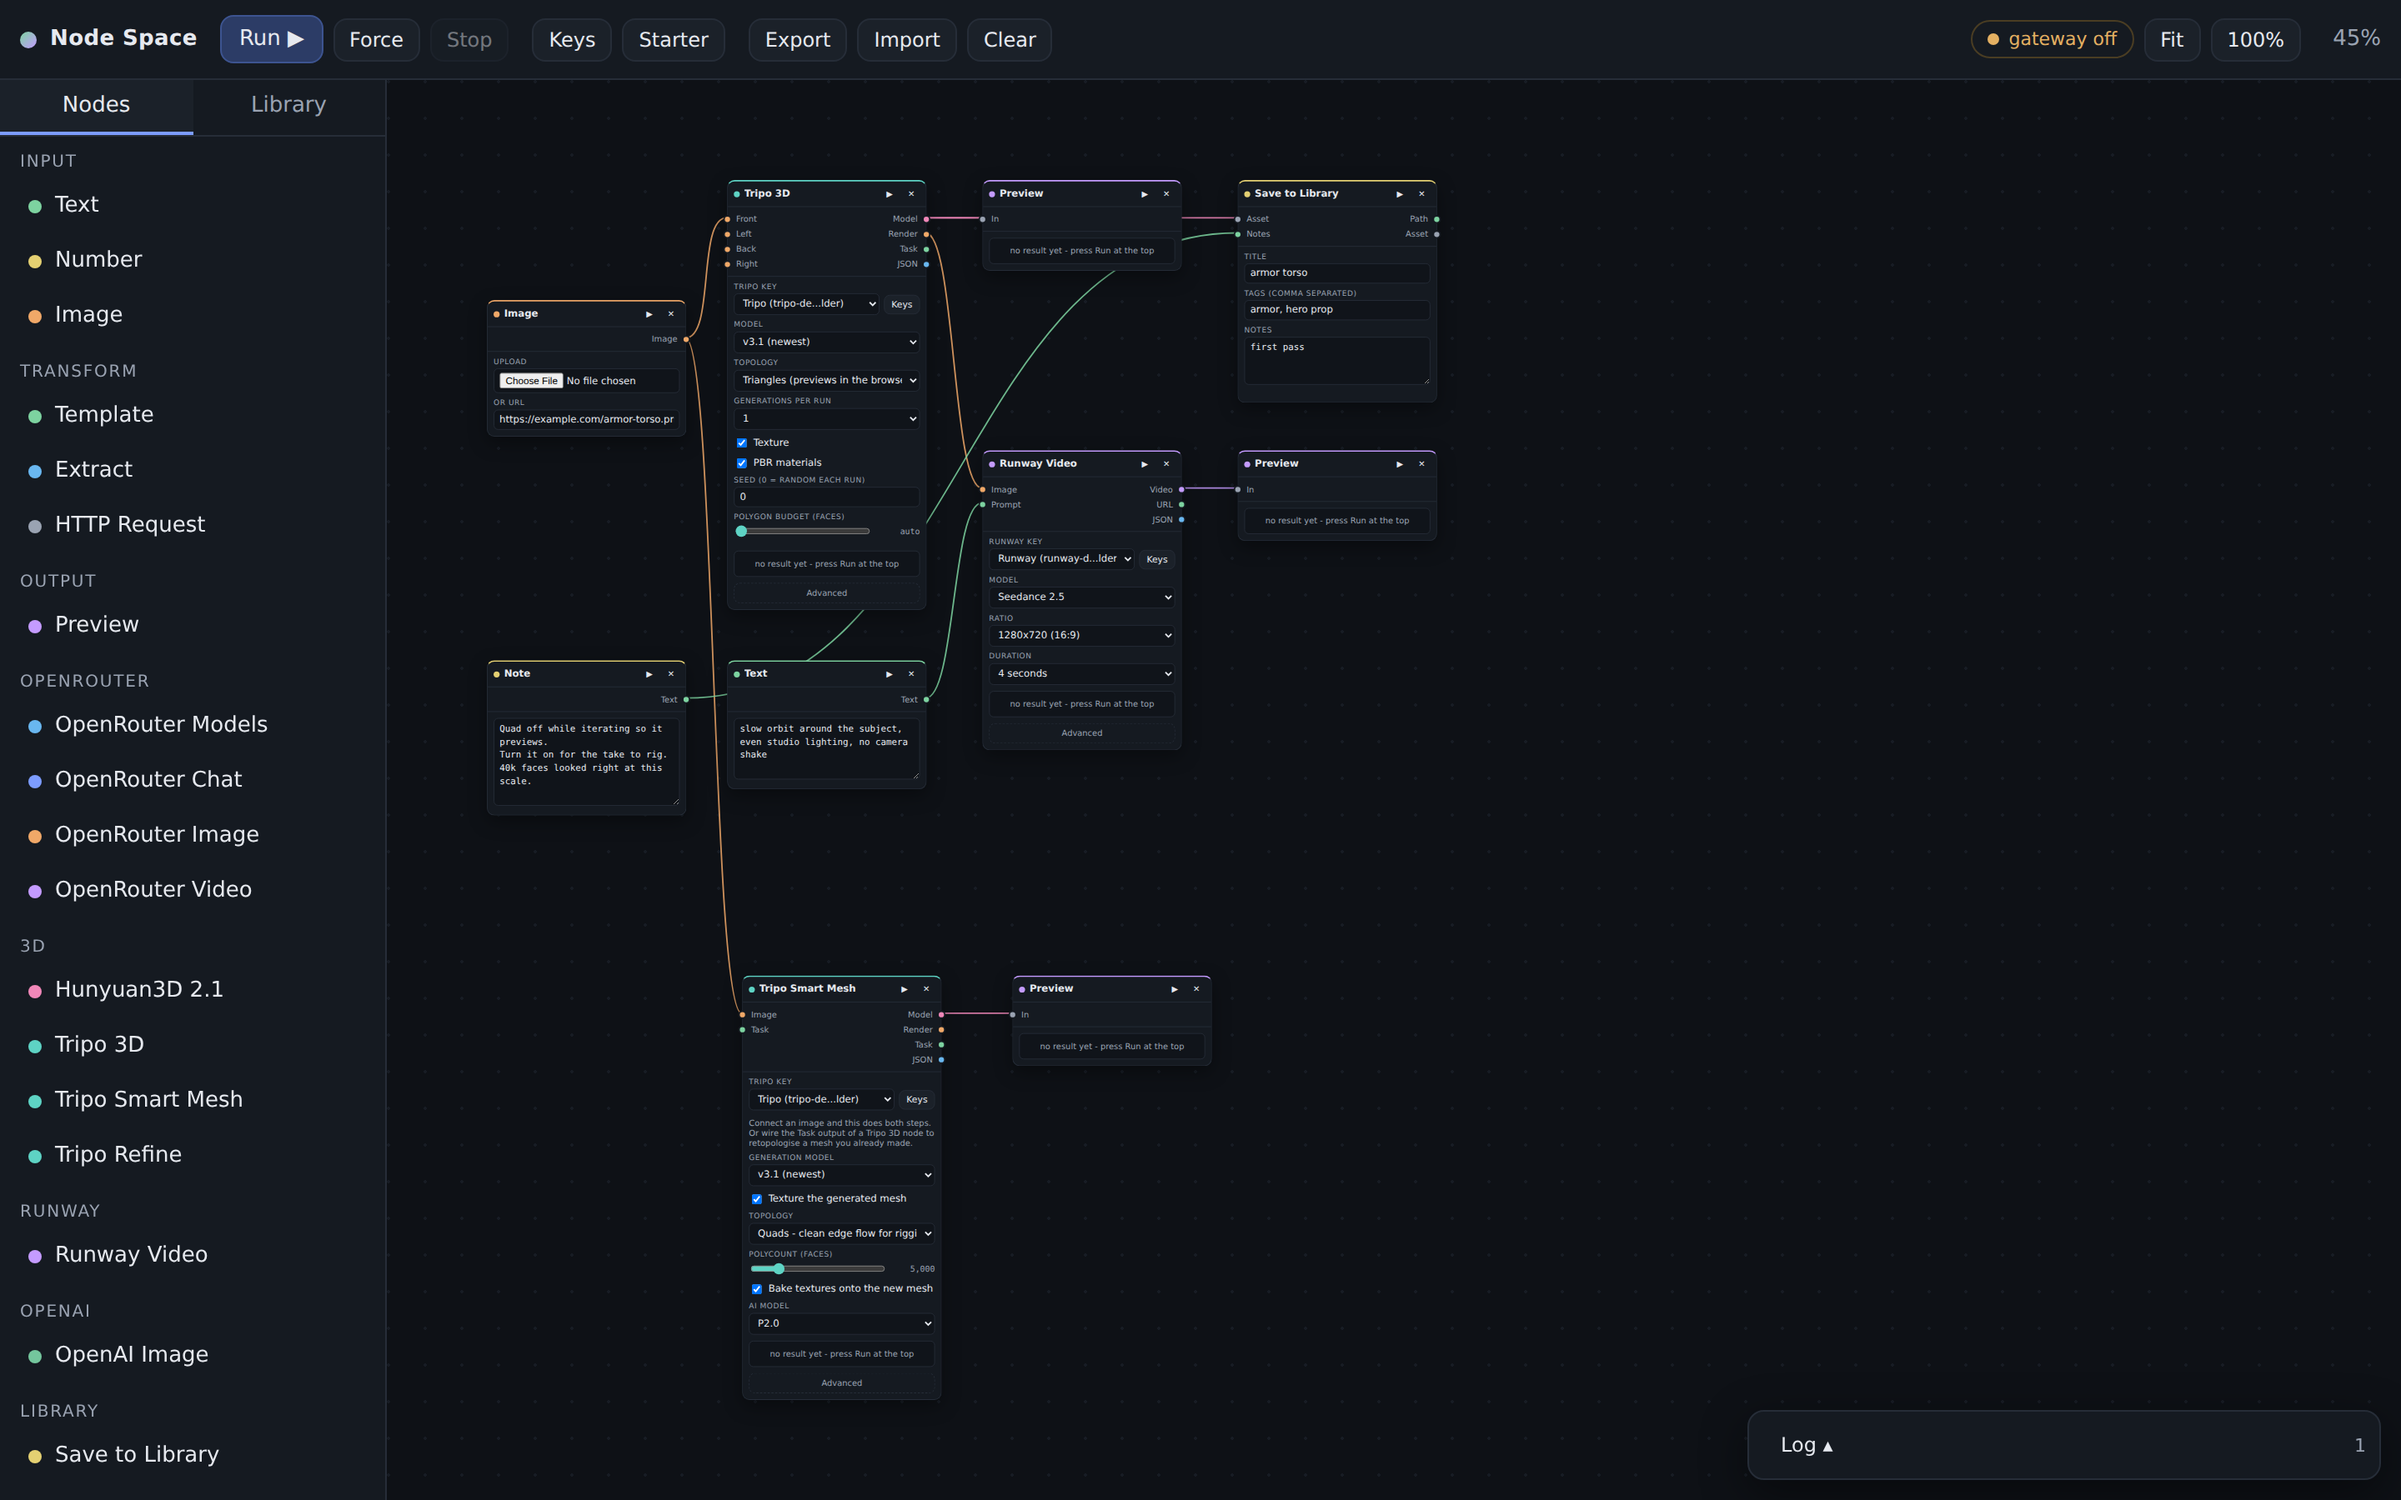
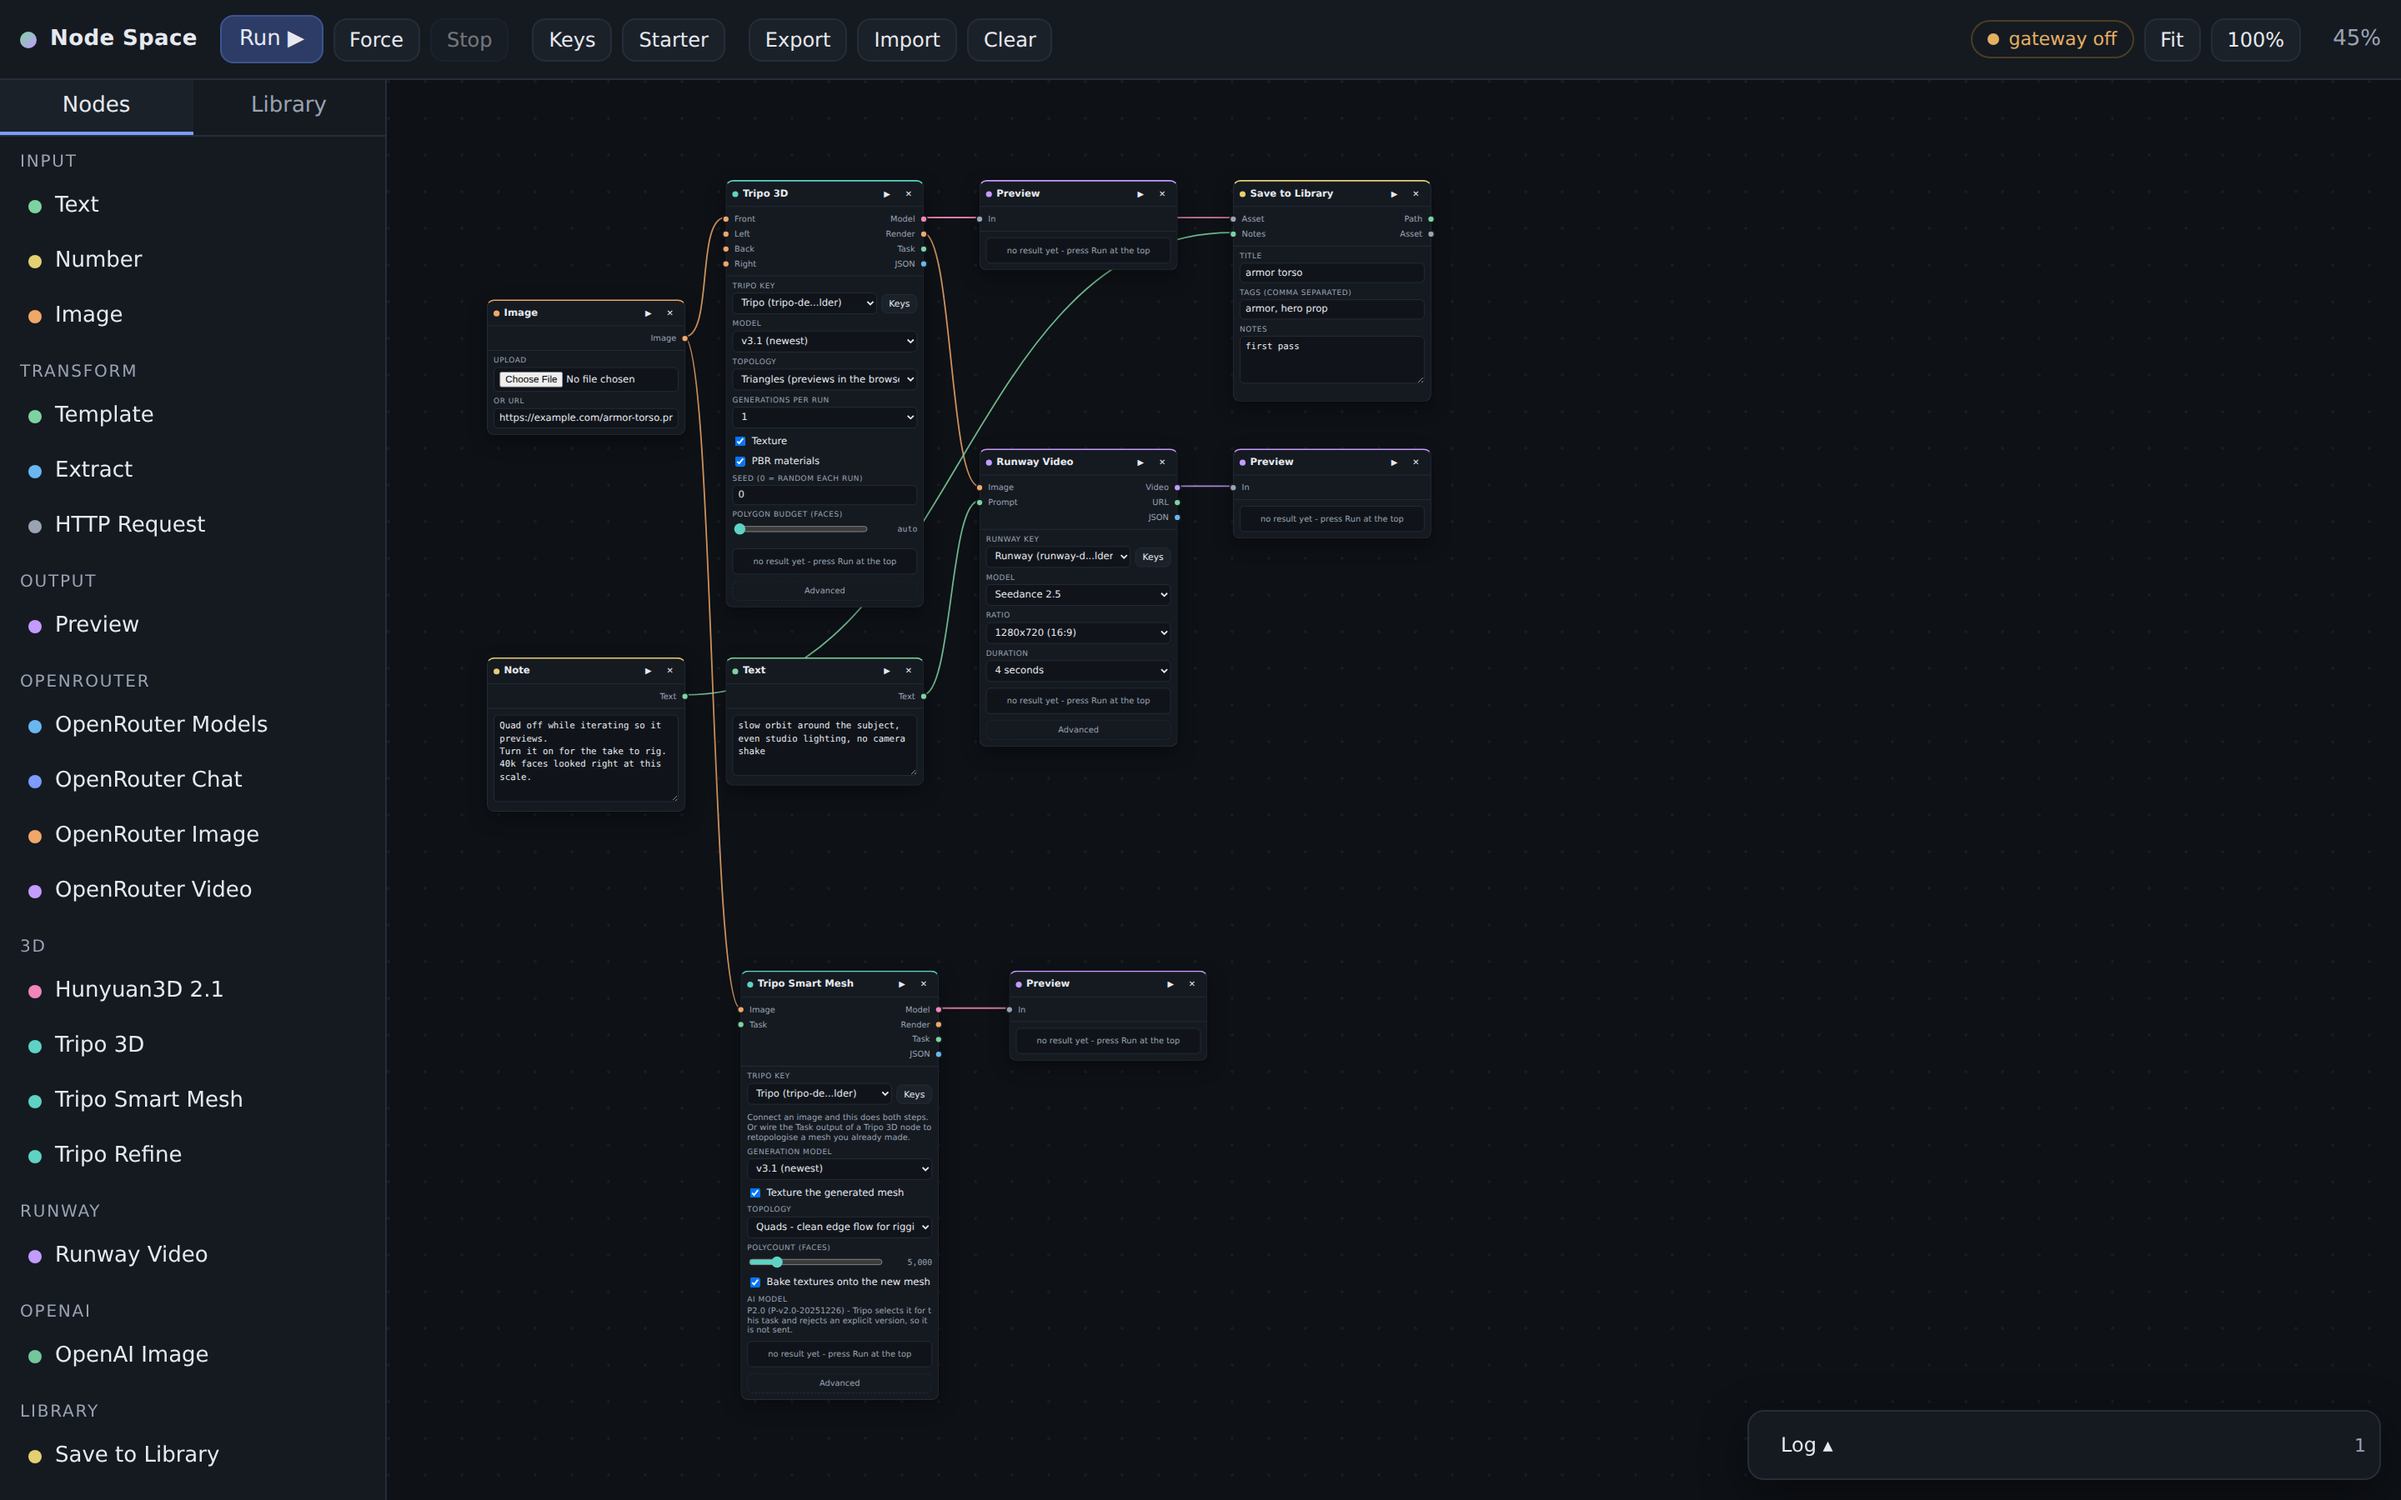
Stop sending model_version on the smart mesh task
"400 The version value is invalid" was my doing: the node sent
model_version: P-v2.0-20251226 on highpoly_to_lowpoly, and that task does not
accept a version at all.

Tripo's own SDK makes this visible once you read how it builds a request. It
forwards a parameter only when the caller's value differs from the signature
default, and for smart_lowpoly the model_version default IS the single allowed
value - so the SDK never puts it on the wire. The string documents which model
the server picks; it is not an argument. Verified by replaying that helper's
logic against the method's defaults: quad and face_limit travel, model_version
does not.

The node now sends what the SDK sends: face_limit always, quad only for quads,
bake only when switched off, and no version. The AI model field became an
honest line naming P2.0 and explaining why nothing is sent, with the Advanced
override kept for whenever the API starts accepting one.

The mock now rejects a version on that task exactly as the API does, so the
suite would have caught this: assertions cover no version being sent, an
override still reaching the request, and the rejection surfacing its reason.
156 green, launcher 6 green.

Claude-Session: https://claude.ai/code/session_01KAM2UFDFoUbGqTMmbka3UZ

diff --git a/src/nodes/tripo-nodes.js b/src/nodes/tripo-nodes.js
@@ -317,16 +317,16 @@ export function registerTripoNodes(registry) {
       },
       { id: 'bake', kind: 'checkbox', label: 'Bake textures onto the new mesh' },
       {
-        id: 'modelVersion',
-        kind: 'select',
+        id: '_model',
+        kind: 'info',
         label: 'AI model',
-        options: [{ value: SMART_MESH_VERSION, label: 'P2.0' }],
+        text: `P2.0 (${SMART_MESH_VERSION}) - Tripo selects it for this task and rejects an explicit version, so it is not sent.`,
       },
       {
         id: 'modelOverride',
         kind: 'text',
         label: 'Model version override',
-        placeholder: 'only if Tripo ships a newer one',
+        placeholder: 'only if Tripo starts accepting one',
         advanced: true,
       },
       ...sharedFields(DEFAULT_TRIPO_BASE),
@@ -339,7 +339,6 @@ export function registerTripoNodes(registry) {
       topology: 'triangle',
       faceLimit: 5000,
       bake: true,
-      modelVersion: SMART_MESH_VERSION,
       modelOverride: '',
       baseUrl: DEFAULT_TRIPO_BASE,
       pollSeconds: 5,
@@ -393,16 +392,22 @@ export function registerTripoNodes(registry) {
         render = genTask.output?.rendered_image ? media('image', genTask.output.rendered_image) : null;
       }
 
+      // Send only what Tripo's own SDK sends for this task. It forwards a
+      // parameter only when it differs from its default, and model_version's
+      // default is the single allowed value - so the API never receives one and
+      // rejects it with "The version value is invalid" when it does. Likewise
+      // bake defaults to true there, so it only travels when switched off.
       const body = {
         type: 'highpoly_to_lowpoly',
         original_model_task_id: sourceTask,
-        model_version: data.modelOverride?.trim() || data.modelVersion || SMART_MESH_VERSION,
         face_limit: Math.max(500, Number(data.faceLimit) || 5000),
-        bake: data.bake !== false,
       };
       if (data.topology === 'quad') body.quad = true;
+      if (data.bake === false) body.bake = false;
+      const override = data.modelOverride?.trim();
+      if (override) body.model_version = override;
 
-      log(`smart mesh: ${body.model_version}, ${body.face_limit} faces, ${data.topology}`);
+      log(`smart mesh: ${override ? override : `P2.0 (${SMART_MESH_VERSION}, chosen by Tripo)`}, ${body.face_limit} faces, ${data.topology}`);
       const taskId = await createTask({ baseUrl, apiKey, body, signal });
       const task = await poll(taskId, 'smart mesh');
 

diff --git a/README.md b/README.md
@@ -276,7 +276,16 @@ Smart Mesh** node takes either:
   paid to generate.
 
 Either way you choose **quads or triangles**, a **polycount** (500–25,000, the
-Studio's range) and whether to bake textures onto the result. Keeping the Task
+Studio's range) and whether to bake textures onto the result.
+
+One subtlety worth recording: **the node does not send `model_version` for this
+task**, because the API rejects it with "The version value is invalid". Tripo's
+own SDK behaves the same way — it forwards a parameter only when it differs from
+its default, and `model_version`'s default there *is* the single allowed value,
+so it never reaches the wire. The version string is documentation of which model
+the server uses, not an argument. The node says as much on its face, and keeps
+an Advanced override for whenever that changes. The same reasoning applies to
+`bake`, which only travels when switched off. Keeping the Task
 route means you can try several polycounts against one generation without
 generating again.
 
